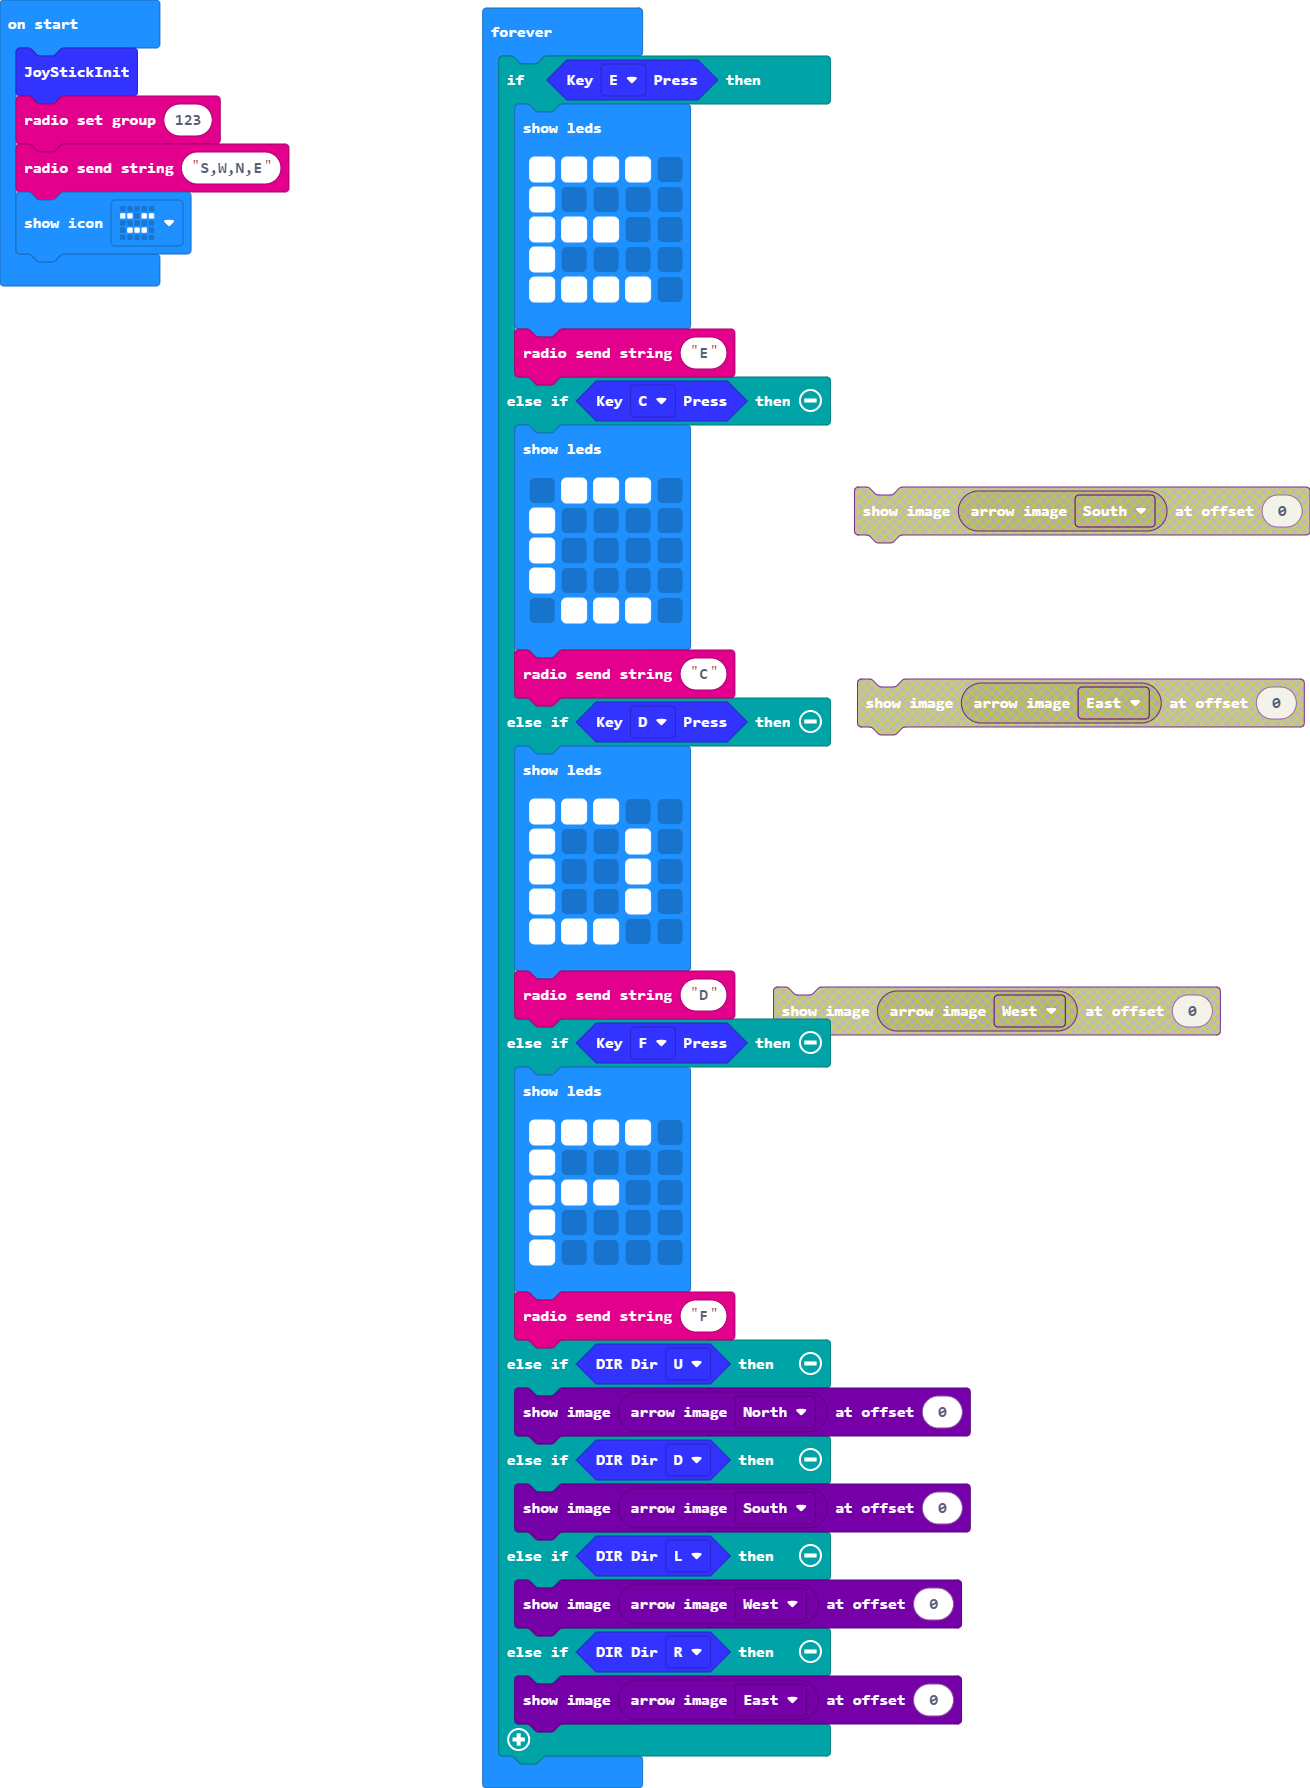
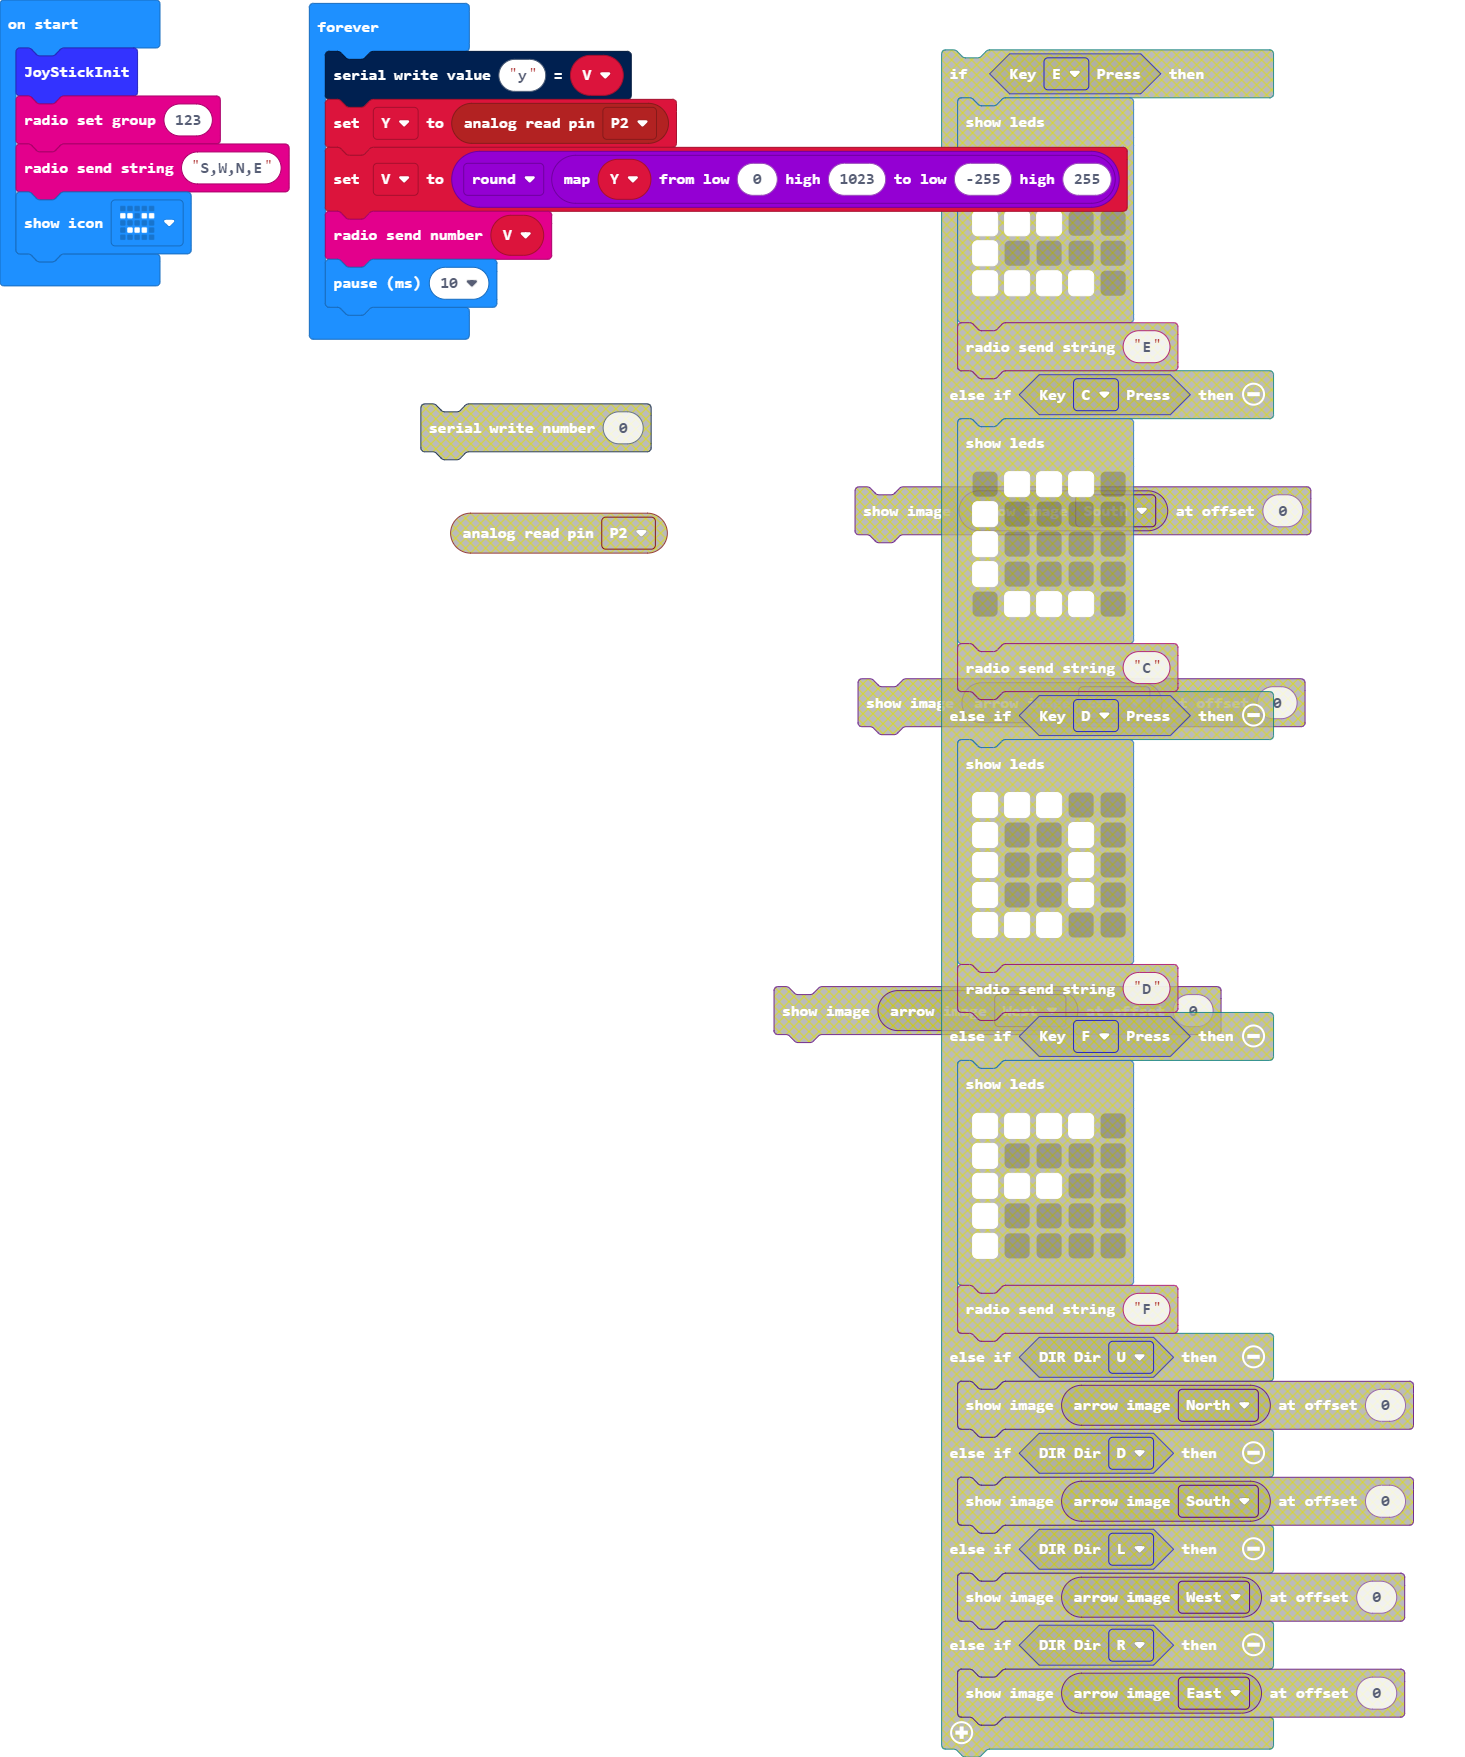
Update main.blocks, main.ts

diff --git a/main.ts b/main.ts
@@ -1,51 +1,13 @@
+let Y = 0
+let V = 0
 WSJoyStick.JoyStickInit()
 radio.setGroup(123)
 radio.sendString("S,W,N,E")
 basic.showIcon(IconNames.Asleep)
 basic.forever(function () {
-    if (WSJoyStick.Listen_Key(KEY.E)) {
-        basic.showLeds(`
-            # # # # .
-            # . . . .
-            # # # . .
-            # . . . .
-            # # # # .
-            `)
-        radio.sendString("E")
-    } else if (WSJoyStick.Listen_Key(KEY.C)) {
-        basic.showLeds(`
-            . # # # .
-            # . . . .
-            # . . . .
-            # . . . .
-            . # # # .
-            `)
-        radio.sendString("C")
-    } else if (WSJoyStick.Listen_Key(KEY.D)) {
-        basic.showLeds(`
-            # # # . .
-            # . . # .
-            # . . # .
-            # . . # .
-            # # # . .
-            `)
-        radio.sendString("D")
-    } else if (WSJoyStick.Listen_Key(KEY.F)) {
-        basic.showLeds(`
-            # # # # .
-            # . . . .
-            # # # . .
-            # . . . .
-            # . . . .
-            `)
-        radio.sendString("F")
-    } else if (WSJoyStick.Listen_Dir(DIR.U)) {
-        images.arrowImage(ArrowNames.North).showImage(0)
-    } else if (WSJoyStick.Listen_Dir(DIR.D)) {
-        images.arrowImage(ArrowNames.South).showImage(0)
-    } else if (WSJoyStick.Listen_Dir(DIR.L)) {
-        images.arrowImage(ArrowNames.West).showImage(0)
-    } else if (WSJoyStick.Listen_Dir(DIR.R)) {
-        images.arrowImage(ArrowNames.East).showImage(0)
-    }
+    serial.writeValue("y", V)
+    Y = pins.analogReadPin(AnalogPin.P2)
+    V = Math.round(Math.map(Y, 0, 1023, -255, 255))
+    radio.sendNumber(V)
+    basic.pause(10)
 })
